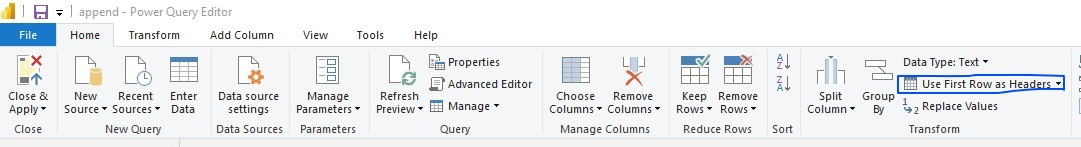
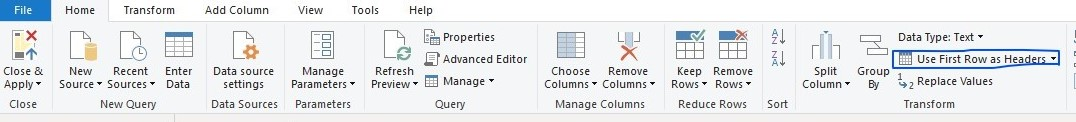
commit power query

Changed region(s): [[0.0, 0.0, 1.0, 0.7869], [0.0, 0.8115, 1.0, 0.9344]]

diff --git a/Power-Query/_posts/2023-04-17-Data-Transformation.md b/Power-Query/_posts/2023-04-17-Data-Transformation.md
@@ -1,0 +1,119 @@
+---
+layout: Power-Query-post
+title: Data Transformation using Power Query
+author: Emmanuel Arize
+category: Power-Query
+
+---
+In this tutorial I'll assume you have been given a project to complete and as analyst you've define a clear  measurable and quantifiable goal for the project, your audience have been identified and any other requirements are also met.
+ You now have the required data for the project but you've seen that the data is in state not suitable for analysis so
+ you've decided to condition or transform the data to suit your analysis. Transforming the data to suit your analysis is a critical step in the data analysis process as it helps to ensure that the data is in a format that is suitable for analysis and modeling, and that it is free of errors and inconsistencies. A failure to transform the data to suit your analysis will result in producing faulty output as there is the popular saying  among the data analyst community which state "garbage in, garbage out" which simply means "incorrect or poor input will produce faulty output".
+
+### What is Data Transformation?
+Data transformation is the process of converting, cleansing, and structuring data into a usable format that can be for analysis and modeling. The goal of data transformation is to prepare the data so that it can be used to extract useful insights and knowledge. Data transformation include data cleaning, data integration, normalization, scaling, reduction, discretization, aggregation and many more.
+
+### Sample Data
+To work through the examples in this tutorial, you’ll need to download the data from <a href="https://github.com/emmanuel-arize/Power-Query/blob/main/data/Life-Expectancy-At-Birth.xls" target="_blank">Life-Expectancy-At-Birth.xls</a> and load it into power query as below
+
+<br>
+<img class="w3-center" src="{{'/assets/images/power_query/trans_1.jpg' |relative_url}}">
+<br>
+
+## Transforming the Data
+From the data above we can see that power query was not able to determine correctly the column headers of the data loaded. Looking at the data we can see that the actual column headers for the data is Row 1 but because power query could not determine it correctly, it labels the column headers as column1, column2 and in that order.
+
+###  Promote Headers Operation
+
+Sometimes the actual column headers of the table is the first row but because power query could not determine it correctly it labels the column headers incorrectly and this need to be corrected. With the promote headers operation, it promotes the first row of values as the new column headers. There are a number of places where we can select the promote headers  operation (**Use First Row as Headers** )
+
+Click on the Home tab then in the Transform group
+
+
+<br>
+<img class="w3-center" src="{{'/assets/images/power_query/append_5.jpg' |relative_url}}">
+<br>
+
+Or On the Transform tab, in the Table group.
+
+<br>
+<img class="w3-center" src="{{'/assets/images/power_query/append_6.jpg' |relative_url}}">
+<br>
+
+After clicking on Use First Row as Headers, the first row in the query is used as the column headers of the query and we get the table below
+
+<br>
+<img class="w3-center" src="{{'/assets/images/power_query/trans_2.jpg' |relative_url}}">
+<br>
+
+
+### Remove columns
+
+ Remove columns is an operations that help you define what columns your table needs to remove. From the data the columns named **Indicator Name** and **Indicator Code** contain data not relevant to our analysis so we need to remove them.
+To remove these columns select the columns to remove, in our case the column **Indicator Name** and **Indicator Code**
+as below
+
+
+
+<br>
+<img class="w3-center" src="{{'/assets/images/power_query/trans_3.jpg' |relative_url}}">
+<br>
+
+then **right click** and select **Remove Columns** to remove the selected columns. **Remove Columns can also be found on the  Home tab**. With the unwanted columns removed the table is given as below
+
+
+<br>
+<img class="w3-center" src="{{'/assets/images/power_query/trans_4.jpg' |relative_url}}">
+<br>
+
+
+
+### Filtering the Data
+
+From the data some countries such as **Andorra, American Samoa** etc contain null values throughout, so we need to filter out such rows from the data. Since this can be completed using  the M language I will used the **Advanced Eidtor** which can be located on the Home tab. To open the Advanced Editor
+
+- Click on the home tab then Advanced Editor
+
+When the Advanced Editor is opened you will get A GUI similar to one below
+
+<br>
+<img class="w3-center" src="{{'/assets/images/power_query/trans_5.jpg' |relative_url}}">
+<br>
+
+With the Advanced Editor opened I will write M code named **#"RemoveNullRows"** to remove any row containing null value under the column named 1960. The code is given below
+
+<br>
+<img class="w3-center" src="{{'/assets/images/power_query/trans_6.jpg' |relative_url}}">
+<br>
+
+with the null values removed we now have a table as the one below
+
+<br>
+<img class="w3-center" src="{{'/assets/images/power_query/trans_7.jpg' |relative_url}}">
+<br>
+
+### Unpivot columns
+
+given a table like the above, where country rows and date columns create a matrix of values, it's difficult to analyze the data in a scalable way. In such cases we might want to unpivot or flatten the data, to put it in a matrix format so that all similar values are in one column. To unpivot the table to have country, country code ,year and life Expectancy at birth as columns select the country and country code columns as below
+
+<br>
+<img class="w3-center" src="{{'/assets/images/power_query/trans_8.jpg' |relative_url}}">
+<br>
+
+right on the selected columns and select **Unpivot Other Columns**. This give the table below
+
+
+<br>
+<img class="w3-center" src="{{'/assets/images/power_query/trans_9.jpg' |relative_url}}">
+<br>
+
+Now rename the **Attribute** column to **Year** , **Value** to **Life_Expentancy_At_Birth** and sort the data in ascending order based on the Year column. This give the table as below
+
+<br>
+<img class="w3-center" src="{{'/assets/images/power_query/trans_10.jpg' |relative_url}}">
+<br>
+
+The M code for all the transformation perform is this tutorial is given as
+
+<br>
+<img class="w3-center" src="{{'/assets/images/power_query/trans_11.jpg' |relative_url}}">
+<br>
